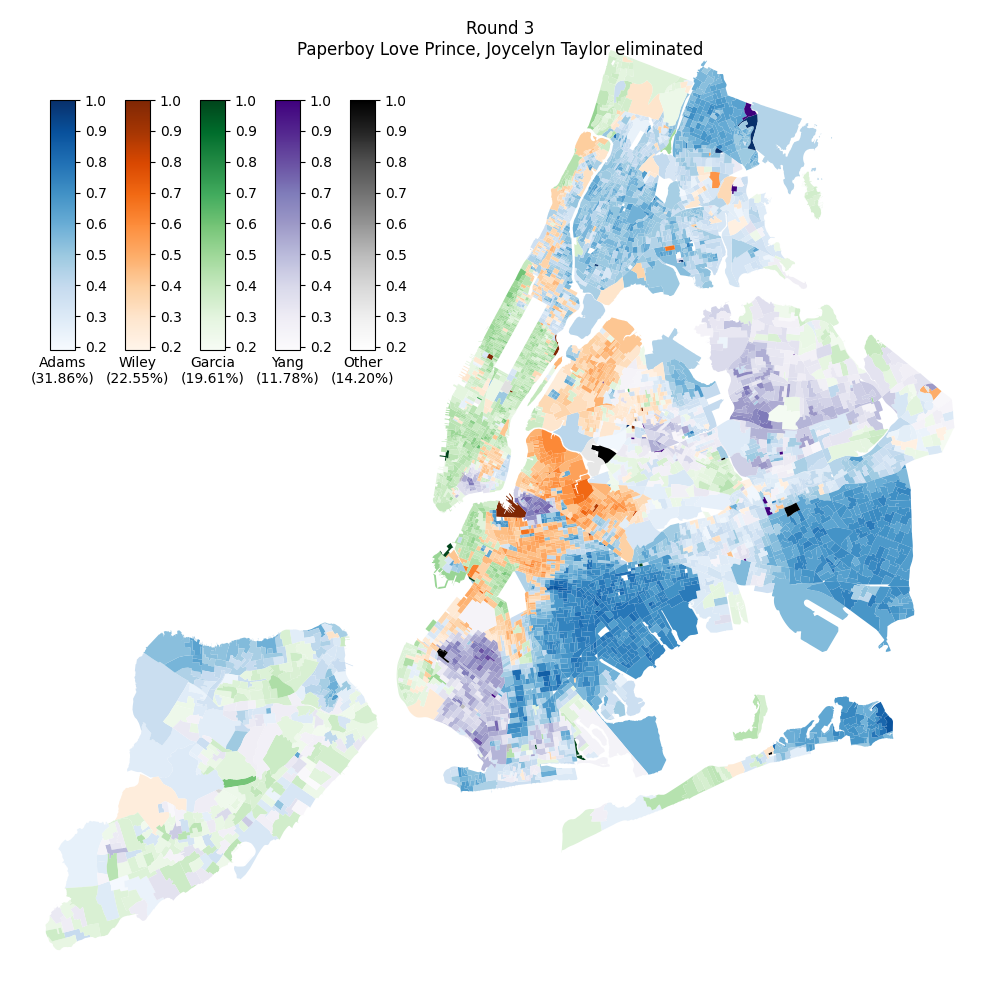
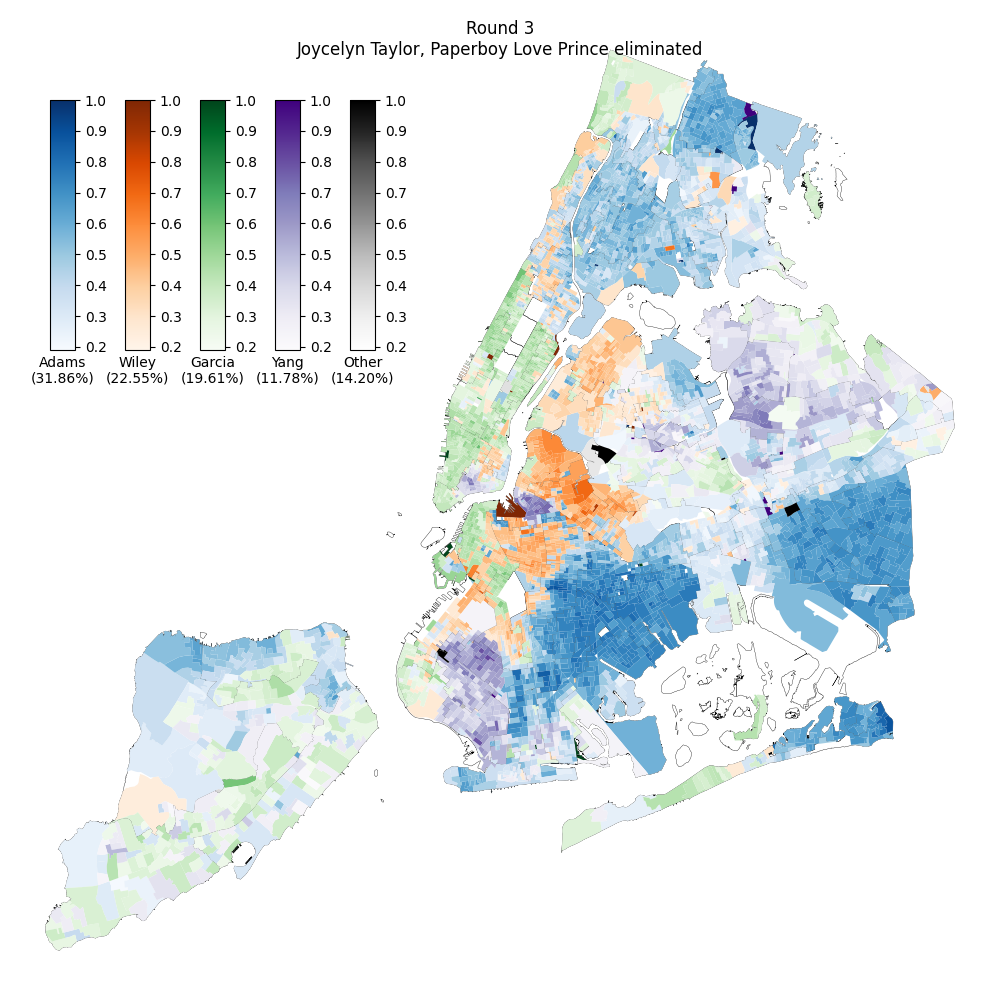
underlay AD shapefile to show no vote areas

diff --git a/nyc_ed_rcv.py b/nyc_ed_rcv.py
@@ -50,6 +50,8 @@ for ad_n in range(23, 88):
 
 nyc_ed = geopandas.read_file('nyed_21b/nyed.shp')
 nyc_ed.rename(nyc_ed.iloc[:, 0], inplace=True)
+nyc_ad = geopandas.read_file('nyad_21b/nyad.shp')
+
 
 number_rounds = max([len(v) for v in round_votes_gained.values()])
 for round_number in range(number_rounds):
@@ -71,6 +73,7 @@ for round_number in range(number_rounds):
 
     plt.clf()
     fig, ax = plt.subplots(figsize=(10, 10))
+    nyc_ad.plot(ax=ax, legend=False, facecolor="none", edgecolor="0.0", linewidth=0.25)
     ax.axis("off")
     fig.suptitle(f'Round {round_number+1}\n{", ".join(eliminated)} eliminated')
     total_round_votes = all_eds.sum().sum()
